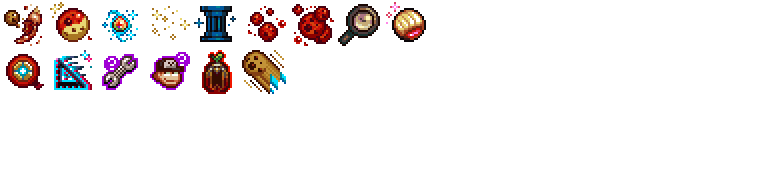
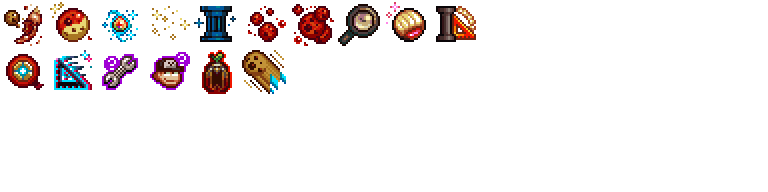
the 2.021 update

Changed region(s): [[0.5625, 0.0312, 0.625, 0.2188]]

diff --git a/main.js b/main.js
@@ -60,16 +60,6 @@ Game.SilentWin = function(what) {
 }
 
 
-new Game.AddAchievement("Itchy trigger finger", "Burst a wrinkler <b>before</b> it's consumed any cookies.", [19, 8]);
-new Game.AddAchievement('Stomachache', 'Burst a wrinkler containing <b>1000000000000</b> cookies.', [0, 0, icons]);
-new Game.AddAchievement('Dyspepsia', 'Burst a wrinkler containing <b>1000000000000000000000</b> cookies.', [0, 0, icons]);
-new Game.AddAchievement('Hemorrhage', 'Burst a wrinkler containing <b>1000000000000000000000000000000</b> cookies.', [0, 0, icons]);
-
-new Game.AddAchievement("Heavenly beginnings", "Obtain a heavenly chip.<q>Impressive.</q>", [2, 0, icons]);
-new Game.AddAchievement("Heavenly bakery", "Obtain <b>1000000</b> total heavenly chips.<q>Amazing.</q>", [19, 7]);
-new Game.AddAchievement("Heavenly empire", "Obtain <b>1000000000</b> total heavenly chips.<q>Incredible.</q>", [20, 7]);
-new Game.AddAchievement("Heavenly legacy", "Obtain <b>1000000000000</b> total heavenly chips.<q>Magnifique.</q>", [28, 12]);
-
 new Game.AddAchievement("Wrath cookie", "Click a <b>wrath cookie</b>.", [15, 5]);
 new Game.AddAchievement("Dodgy cookie", "Click <b>6 wrath cookies</b>.", [5, 0, icons]);
 new Game.AddAchievement("Withering heights", "Click <b>66 wrath cookies</b>.", [6, 0, icons]);
@@ -77,9 +67,26 @@ new Game.AddAchievement("Hattrick", "Have <b>3</b> buffs active simultaneously."
 new Game.AddAchievement("Dichotomy", "Have both a golden cookie, and wrath cookie present on screen <b>simultaneously</b>.<q>Perfectly balanced, as all things should be.</q>", [1, 0, icons]);
 new Game.AddAchievement("Crumbling fortune", "Miss <b>77</b> golden cookies.", [3, 0, icons]);
 
+new Game.AddAchievement("Achievement not found", "Obtain <b>404 base game achievements</b>.<q>Refer to the manual to determine the exact cause of this error</q>", [0, 7]);
+
+new Game.AddAchievement("Itchy trigger finger", "Burst a wrinkler <b>before</b> it consumes any cookies.", [19, 8]);
+new Game.AddAchievement('Stomachache', 'Burst a wrinkler containing <b>1000000000000</b> cookies.', [0, 0, icons]);
+new Game.AddAchievement('Dyspepsia', 'Burst a wrinkler containing <b>1000000000000000000000</b> cookies.', [0, 0, icons]);
+new Game.AddAchievement('Hemorrhage', 'Burst a wrinkler containing <b>1000000000000000000000000000000</b> cookies.', [0, 0, icons]);
+
 new Game.AddAchievement("Master of the elements", "Experience every season in one ascension.", [16, 6]);
 
-new Game.AddAchievement('Earl of creation', 'Own <b>1000</b> of any building.', [4, 0, icons]);
+new Game.AddAchievement("Earl of creation", "Own <b>1000</b> of any building.", [4, 0, icons]);
+new Game.AddAchievement("Euclidean geometry", "Own <b>500</b> upgrades and <b>5000</b> buildings.<q>The giants look up to you, you have gone far beyond what they could ever have hoped to, the world is in your hands.</q>", [9, 0, icons]);
+
+new Game.AddAchievement("Heavenly beginnings", "Obtain a heavenly chip.<q>Impressive.</q>", [2, 0, icons]);
+new Game.AddAchievement("Heavenly bakery", "Obtain <b>1000000</b> total heavenly chips.<q>Amazing.</q>", [19, 7]);
+new Game.AddAchievement("Heavenly empire", "Obtain <b>1000000000</b> total heavenly chips.<q>Incredible.</q>", [20, 7]);
+new Game.AddAchievement("Heavenly legacy", "Obtain <b>1000000000000</b> total heavenly chips.<q>Magnifique.</q>", [28, 12]);
+
+new Game.AddAchievement("Good news", "Click a <b>fortune</b>.", [29, 8]);
+new Game.AddAchievement("Lucky day", "Click <b>7 fortunes</b>.", [29, 8]);
+new Game.AddAchievement("Fortunate", "Click <b>77 fortunes</b>.", [29, 8]);
 
 new Game.AddAchievement("Farming simulator", "Unlock <b>every upgrade and cookie from the garden</b>.", [8, 0, icons]);
 new Game.AddAchievement("Finder's keepers", "Fill in <b>half</b> of the seed log.<q>You snooze, you lose.</q>", [7, 0, icons]);
@@ -93,15 +100,7 @@ new Game.AddAchievement("Tragedy comes in trees", "Convert a complete seed log i
 new Game.AddAchievement("Excellent bakery", "Own <b>1 month's worth</b> of your unbuffed CpS.<q>You and I have witnessed many things, but nothing as bodacious as what just happened.</q>", [5, 1, icons]); Game.last.pool = "shadow";
 
 
-Game.Achievements['Itchy trigger finger'].order = 21000.107;
-Game.Achievements['Stomachache'].order = 21000.108;
-Game.Achievements['Dyspepsia'].order = 21000.109;
-Game.Achievements['Hemorrhage'].order = 21000.110;
 
-Game.Achievements["Heavenly beginnings"].order = 32000.80;
-Game.Achievements["Heavenly bakery"].order = 32000.81;
-Game.Achievements["Heavenly empire"].order = 32000.82;
-Game.Achievements["Heavenly legacy"].order = 32000.83;
 
 Game.Achievements["Wrath cookie"].order = 10000.090;
 Game.Achievements["Dodgy cookie"].order = 10000.091;
@@ -110,9 +109,26 @@ Game.Achievements["Hattrick"].order = 10000.270;
 Game.Achievements["Dichotomy"].order = 10000.271;
 Game.Achievements["Crumbling fortune"].order = 10000.271;
 
+Game.Achievements["Achievement not found"].order = 11000.244;
+
+Game.Achievements['Itchy trigger finger'].order = 21000.107;
+Game.Achievements['Stomachache'].order = 21000.108;
+Game.Achievements['Dyspepsia'].order = 21000.109;
+Game.Achievements['Hemorrhage'].order = 21000.110;
+
 Game.Achievements["Master of the elements"].order = 22400.170;
 
 Game.Achievements["Earl of creation"].order = 5000.128;
+Game.Achievements["Euclidean geometry"].order = 6000.44;
+
+Game.Achievements["Heavenly beginnings"].order = 32000.80;
+Game.Achievements["Heavenly bakery"].order = 32000.81;
+Game.Achievements["Heavenly empire"].order = 32000.82;
+Game.Achievements["Heavenly legacy"].order = 32000.83;
+
+Game.Achievements["Good news"].order = 33000.450;
+Game.Achievements["Lucky day"].order = 33000.451;
+Game.Achievements["Fortunate"].order = 33000.452;
 
 Game.Achievements["Farming simulator"].order = 61515.379;
 Game.Achievements["Finder's keepers"].order = 61515.380;
@@ -174,9 +190,12 @@ Game.customChecks = [
 		if (Game.experiencedAllSeasons) Game.Win("Master of the elements");
 
 		if (Game.maximumBuildingAmount >= 1000) Game.Win("Earl of creation");
+		if (Game.BuildingsOwned >= 5000 && Game.UpgradesOwned >= 500) Game.Win("Euclidean geometry");
 
 		if (Game.foundAllGardenUpgrades) Game.Win("Farming simulator");
 		if (Game.Objects.Farm.minigame.plantsUnlockedN >= Game.Objects.Farm.minigame.plantsN / 2) Game.Win("Finder's keepers");
+
+		if (Game.AchievementsOwned >= 404) Game.Win("Achievement not found");
 
 
 		if ((Game.ascensionMode==1 || Game.resets==0) && Game.cookiesEarned >= quad && Game.UpgradesOwned == 0) Game.Win("Ironman Mode");
@@ -184,7 +203,7 @@ Game.customChecks = [
 		if (Game.bakeryName.toLowerCase() == "opti") Game.Win("Opti complex");
 		if (Game.Objects.Farm.minigame.convertTimes >= 3) Game.Win("Tragedy comes in trees");
 		if (Game.unbuffedCps >= tril && Game.cookiesEarned >= 60*60*24*30*Game.unbuffedCps) Game.Win("Excellent bakery");
-		if (Game.minimumBuildingAmount >= thou) Game.Win("Decacentennial")
+		if (Game.minimumBuildingAmount >= 1000) Game.Win("Decacentennial")
 	},
 ]
 
@@ -274,8 +293,10 @@ Game.shimmerTypes.golden.popFunc = function(me) {
 	
 	if ((me.wrath==0 && Math.random()<0.15) || Math.random()<0.05)
 	{
-		if (Game.hasAura('Reaper of Fields')) list.push('dragon harvest');
-		if (Game.hasAura('Dragonflight')) list.push('dragonflight');
+		//if (Game.hasAura('Reaper of Fields')) list.push('dragon harvest');
+		if (Math.random()<Game.auraMult('Reaper of Fields')) list.push('dragon harvest');
+		//if (Game.hasAura('Dragonflight')) list.push('dragonflight');
+		if (Math.random()<Game.auraMult('Dragonflight')) list.push('dragonflight');
 	}
 	
 	if (this.last!='' && Math.random()<0.8 && list.indexOf(this.last)!=-1) list.splice(list.indexOf(this.last),1);//80% chance to force a different one
@@ -297,7 +318,8 @@ Game.shimmerTypes.golden.popFunc = function(me) {
 	if (Game.Has('Lucky number')) effectDurMod*=1.01;
 	if (Game.Has('Green yeast digestives')) effectDurMod*=1.01;
 	if (Game.Has('Lucky payout')) effectDurMod*=1.01;
-	if (Game.hasAura('Epoch Manipulator')) effectDurMod*=1.05;
+	//if (Game.hasAura('Epoch Manipulator')) effectDurMod*=1.05;
+	effectDurMod*=1+Game.auraMult('Epoch Manipulator')*0.05;
 	if (!me.wrath) effectDurMod*=Game.eff('goldenCookieEffDur');
 	else effectDurMod*=Game.eff('wrathCookieEffDur');
 	
@@ -311,8 +333,10 @@ Game.shimmerTypes.golden.popFunc = function(me) {
 	
 	//effect multiplier (from lucky etc)
 	var mult=1;
-	if (me.wrath>0 && Game.hasAura('Unholy Dominion')) mult*=1.1;
-	else if (me.wrath==0 && Game.hasAura('Ancestral Metamorphosis')) mult*=1.1;
+	//if (me.wrath>0 && Game.hasAura('Unholy Dominion')) mult*=1.1;
+	//else if (me.wrath==0 && Game.hasAura('Ancestral Metamorphosis')) mult*=1.1;
+	if (me.wrath>0) mult*=1+Game.auraMult('Unholy Dominion')*0.1;
+	else if (me.wrath==0) mult*=1+Game.auraMult('Ancestral Metamorphosis')*0.1;
 	if (Game.Has('Green yeast digestives')) mult*=1.01;
 	if (!me.wrath) mult*=Game.eff('goldenCookieGain');
 	else mult*=Game.eff('wrathCookieGain');
@@ -516,6 +540,9 @@ Game.CalculateGains=function() {
 	if (Game.Has('An itchy sweater')) mult*=1.01;
 	if (Game.Has('Santa\'s dominion')) mult*=1.2;
 	
+	if (Game.Has('Fortune #100')) mult*=1.01;
+	if (Game.Has('Fortune #101')) mult*=1.07;
+	
 	var buildMult=1;
 	if (Game.hasGod)
 	{
@@ -564,7 +591,8 @@ Game.CalculateGains=function() {
 	Game.milkProgress=Game.AchievementsOwned/25;
 	var milkMult=1;
 	if (Game.Has('Santa\'s milk and cookies')) milkMult*=1.05;
-	if (Game.hasAura('Breath of Milk')) milkMult*=1.05;
+	//if (Game.hasAura('Breath of Milk')) milkMult*=1.05;
+	milkMult*=1+Game.auraMult('Breath of Milk')*0.05;
 	if (Game.hasGod)
 	{
 		var godLvl=Game.hasGod('mother');
@@ -588,7 +616,9 @@ Game.CalculateGains=function() {
 	if (Game.Has('Kitten assistants to the regional manager')) catMult*=(1+Game.milkProgress*0.175*milkMult);
 	if (Game.Has('Kitten marketeers')) catMult*=(1+Game.milkProgress*0.15*milkMult);
 	if (Game.Has('Kitten analysts')) catMult*=(1+Game.milkProgress*0.125*milkMult);
+	if (Game.Has('Kitten executives')) catMult*=(1+Game.milkProgress*0.115*milkMult);
 	if (Game.Has('Kitten angels')) catMult*=(1+Game.milkProgress*0.1*milkMult);
+	if (Game.Has('Fortune #103')) catMult*=(1+Game.milkProgress*0.05*milkMult);
 	
 	Game.cookiesMultByType['kittens']=catMult;
 	mult*=catMult;
@@ -619,12 +649,14 @@ Game.CalculateGains=function() {
 	
 	if (Game.Has('Sugar baking')) mult*=(1+Math.min(100,Game.lumps)*0.01);
 	
-	if (Game.hasAura('Radiant Appetite')) mult*=2;
+	//if (Game.hasAura('Radiant Appetite')) mult*=2;
+	mult*=1+Game.auraMult('Radiant Appetite');
 	
-	if (Game.hasAura('Dragon\'s Fortune'))
+	if (true)// || Game.hasAura('Dragon\'s Fortune'))
 	{
 		var n=Game.shimmerTypes['golden'].n;
-		for (var i=0;i<n;i++){mult*=2.23;}
+		var auraMult=Game.auraMult('Dragon\'s Fortune');
+		for (var i=0;i<n;i++){mult*=1+auraMult*1.23;}
 		//old behavior
 		/*var buffs=0;
 		for (var i in Game.buffs)
@@ -809,9 +841,7 @@ Game.UpdateMenu=function() {
 		var achievements=[];
 		var achievementsOwned=0;
 		var achievementsOwnedOther=0;
-		var achievementsOwnedCustom=0;
 		var achievementsTotal=0;
-		var achievementsTotalCustom=0;
 		
 		var list=[];
 		for (var i in Game.Achievements)//sort the achievements
@@ -825,8 +855,7 @@ Game.UpdateMenu=function() {
 			else return 0;
 		}
 		list.sort(sortMap);
-		
-		
+
 		for (var i in list)
 		{
 			var me=list[i];
@@ -851,8 +880,8 @@ Game.UpdateMenu=function() {
 		var achievementsStr='';
 		var pools={
 			'dungeon':'<b>Dungeon achievements</b> <small>(Not technically achievable yet.)</small>',
-			'shadow':'<b>Shadow achievements</b> <small>(These are feats that are either unfair or difficult to attain. They do not give milk.)</small>',
 			"custom":"<b>Custom achievements</b> <small>(These achievements are added via a mod, whilst not unfair or difficult to attain they do not give milk to retain game balance.)</small>",
+			'shadow':'<b>Shadow achievements</b> <small>(These are feats that are either unfair or difficult to attain. They do not give milk.)</small>'
 		};
 		for (var i in achievements)
 		{
@@ -890,7 +919,7 @@ Game.UpdateMenu=function() {
 		}
 		var dragonStr='';
 		var frames=9;
-		var mainLevels=[0,4,8,21,22,23];
+		var mainLevels=[0,4,8,22,23,24];
 		if (Game.Has('A crumbly egg'))
 		{
 			for (var i=0;i<=mainLevels.length;i++)
@@ -1118,6 +1147,42 @@ Game.crate=function(me,context,forceClickStr,id) {
 	'</div>';
 }
 
+AddEvent(Game.tickerL,'click',function(event) {
+	Game.Ticker='';
+	Game.TickerClicks++;
+	if (Game.TickerClicks==50) {Game.Win('Tabloid addiction');}
+	
+	if (Game.TickerEffect && Game.TickerEffect.type=='fortune')
+	{
+		Game.FortuneClicks++;
+		if (Game.FortuneClicks >= 1) Game.Win("Good news");
+		if (Game.FortuneClicks >= 7) Game.Win("Lucky day");
+		if (Game.FortuneClicks >= 77) Game.Win("Fortunate");
+
+		PlaySound('snd/fortune.mp3',1);
+		Game.SparkleAt(Game.mouseX,Game.mouseY);
+		var effect=Game.TickerEffect.sub;
+		if (effect=='fortuneGC')
+		{
+			Game.Notify('Fortune!','A golden cookie has appeared.',[10,32]);
+			Game.fortuneGC=1;
+			var newShimmer=new Game.shimmer('golden',{noWrath:true});
+		}
+		else if (effect=='fortuneCPS')
+		{
+			Game.Notify('Fortune!','You gain <b>one hour</b> of your CpS (capped at double your bank).',[10,32]);
+			Game.fortuneCPS=1;
+			Game.Earn((Game.cookiesPs*60*60,Game.cookies));
+		}
+		else
+		{
+			Game.Notify(effect.name,'You\'ve unlocked a new upgrade.',effect.icon);
+			effect.unlock();
+		}
+	}
+	
+	Game.TickerEffect=0;
+});
 
 
 var SavePrefix = "XalumPackage"
@@ -1142,6 +1207,9 @@ XalumSaveDefault = function() {
     		fools: false,
     	}
     }
+    if (!Game.wrathClicks) Game.wrathClicks = 0;
+    if (!Game.FortuneClicks) Game.FortuneClicks = 0;
+
     XalumSaveConfig();
 }
 
@@ -1170,9 +1238,11 @@ XalumLoadConfig = function() {
 	    	}
         }
         if (!XalumSave.wrathClicks) XalumSave.wrathClicks = 0;
+        if (!XalumSave.FortuneClicks) XalumSave.FortuneClicks = 0;
 
         Game.experiencedSeasons = XalumSave.experiencedSeasons;
         Game.wrathClicks = XalumSave.wrathClicks;
+        Game.FortuneClicks = XalumSave.FortuneClicks;
     }
     else {
         XalumSaveDefault();
